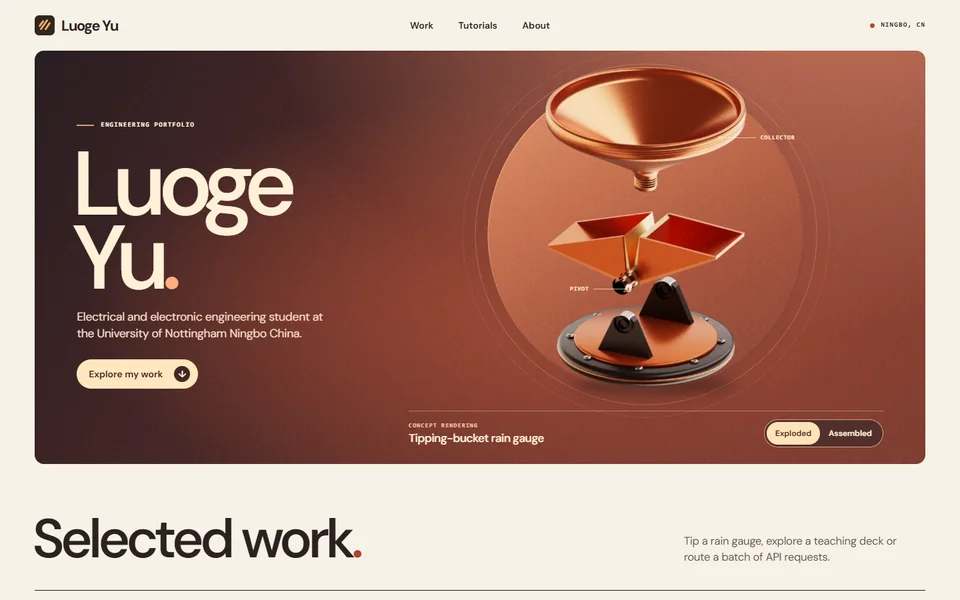
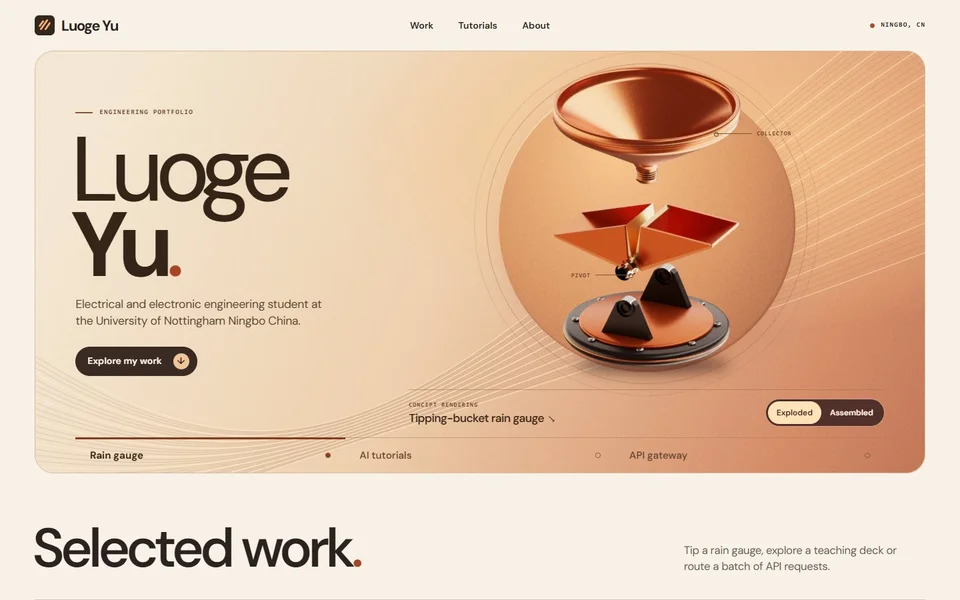
Present three engineering projects in a scroll-responsive copper gallery

diff --git a/version-2-ai-guided/style.css b/version-2-ai-guided/style.css
@@ -301,3 +301,72 @@ html:not(.enhanced) [data-slide] + [data-slide] { border-top: 1px solid #c8ab9b;
 @media (prefers-reduced-motion: reduce) {
   *, *::before, *::after { scroll-behavior: auto !important; transition-duration: 0s !important; animation-duration: .001ms !important }
 }
+
+/* Project gallery. The paper and copper surfaces share the site's original palette. */
+.hero {
+  --gutter: clamp(26px, 4.2vw, 74px);
+  grid-template-rows: minmax(0, 1fr) auto;
+  min-height: clamp(555px, 44vw, 750px);
+  color: #352519;
+  background: radial-gradient(ellipse at 79% 24%, #f6c48d 0%, transparent 40%),
+    linear-gradient(116deg, #f4e8d5 7%, #eed0ae 47%, #d58d68 86%, #c27757);
+  border: 1px solid #d9bda2; border-radius: clamp(17px, 2vw, 32px);
+}
+.current-field { position:absolute; inset:0; width:100%; height:100%; pointer-events:none; z-index:-1 }
+.hero .eyebrow, .hero .micro, .hero .annotation { color:#673e29 }
+.hero .short-rule, .hero .annotation i { background:#885236 }
+.hero .annotation i::after { border-color:#75432f }
+.hero h1 { font-size:clamp(96px,9.5vw,158px); font-weight:450; line-height:.83; margin-block:.16em .14em }
+.hero h1 b { font-weight:710 }
+.hero h1 span { color:#a74426 }
+.hero .intro { color:#563d2e }
+.hero .cta { background:#392b23; color:#fff4e3 }
+.hero .cta:hover { background:#613c29 }
+.hero .cta span { background:#f0c599; color:#3a281c }
+.hero :focus-visible { outline-color:#752c18 }
+.instrument { padding-bottom:14px }
+.instrument figcaption { border-color:#a2705090; min-height:58px }
+.scene-link { display:inline-flex; align-items:baseline; gap:.35em }
+.scene-link:hover strong { text-decoration:underline; text-underline-offset:.2em }
+.stage .lens {
+  background:radial-gradient(ellipse at 39% 24%, #f6c58e 4%, #da9766 54%, #b66f4e 85%);
+  box-shadow:inset 1px 2px 1px #fff1d4a6, inset -2px -3px 3px #99523977, 0 14px 35px #7f3e251c;
+}
+.stage .lens::before { border-color:#94543659 }
+.stage .lens::after { border-color:#94543630 }
+.scene-art { position:absolute; inset:8% 1% 5%; display:grid; place-items:center; pointer-events:none; }
+.scene-art picture { display:contents }
+.scene-art img { display:block; width:100%; height:100%; object-fit:contain; min-height:0; filter:drop-shadow(0 10px 14px #693c2730) }
+.instrument [hidden] { display:none }
+.instrument:not([data-scene="rain"]) :is(.object,.lens,.annotation,.view-control) { display:none }
+.enhanced .scene-picker {
+  display:grid; grid-template-columns:repeat(3,minmax(0,1fr)); grid-column:1 / -1; position:relative;
+  margin:0 var(--gutter); border-top:1px solid #ac775280;
+}
+.scene-picker button {
+  position:relative; display:flex; align-items:center; justify-content:space-between; gap:.5em;
+  border:0; background:transparent; text-align:left; color:#684631;
+  padding:16px clamp(9px,1.5vw,25px); font-size:clamp(12px,1.05vw,17px); font-weight:550;
+}
+.scene-picker button::before { content:""; position:absolute; inset:-1px 0 auto; height:3px; background:#803d24; transform:scaleX(0); transform-origin:left; transition:transform .44s }
+.scene-picker button::after { content:""; width:6px; height:6px; border-radius:50%; border:1px solid #8f6045 }
+.scene-picker button[aria-pressed="true"] { color:#352619; font-weight:700 }
+.scene-picker button[aria-pressed="true"]::before { transform:scaleX(1) }
+.scene-picker button[aria-pressed="true"]::after { background:#803d24 }
+.scene-picker button:focus-visible { outline-offset:-4px }
+@media (prefers-reduced-motion:no-preference) {
+  .scene-art:not([hidden]) img { animation: gallery-open .65s cubic-bezier(.18,.7,.2,1) both }
+  @keyframes gallery-open { from { clip-path:inset(0 17% round 16px); transform:scale(.95) } to { clip-path:inset(0 round 0); transform:scale(1) } }
+  .project.art-enter :is(.rain-study,.tutorial-cover,.gateway-figure picture) { animation: study-open .70s cubic-bezier(.18,.7,.2,1) both }
+  @keyframes study-open { from { clip-path:inset(1% 5% round 14px) } to { clip-path:inset(0 round 0) } }
+}
+@media (max-width:740px) {
+  .hero { --gutter:clamp(16px,5vw,32px); grid-template-rows:auto auto auto; min-height:0 }
+  .hero h1 { font-size:clamp(64px,15vw,101px); line-height:.9; margin-block:.13em }
+  .hero .stage { height:clamp(247px,66vw,360px) }
+  .scene-art { inset:5% 0 }
+  .instrument figcaption { min-height:48px }
+  .instrument strong { font-size:clamp(13px,3.5vw,17px) }
+  .instrument { padding-bottom:8px }
+  .scene-picker button { min-height:44px; padding:11px 6px }
+}

diff --git a/version-2-ai-guided/portfolio.js b/version-2-ai-guided/portfolio.js
@@ -14,6 +14,81 @@ function setAssembly(assembled) {
 assemblyButton.addEventListener("click", () => setAssembly(true));
 explodedButton.addEventListener("click", () => setAssembly(false));
 
+const sceneButtons = document.querySelectorAll(".scene-picker button");
+const scenes = {
+  rain: { title: "Tipping-bucket rain gauge", medium: "Concept rendering", target: "#rain-gauge" },
+  lesson: { title: "Inside a language model", medium: "Published lesson cover", target: "#ai-tutorials" },
+  gateway: { title: "Sub2API on OVH", medium: "System architecture", target: "#api-gateway" }
+};
+const sceneLink = byId("scene-link");
+for (const button of sceneButtons) {
+  button.addEventListener("click", () => {
+    const key = button.dataset.scene;
+    const scene = scenes[key];
+    instrument.dataset.scene = key;
+    instrument.querySelector(".lesson-art").hidden = key !== "lesson";
+    instrument.querySelector(".gateway-art").hidden = key !== "gateway";
+    byId("scene-medium").textContent = scene.medium;
+    sceneLink.querySelector("strong").textContent = scene.title;
+    sceneLink.setAttribute("href", scene.target);
+    sceneButtons.forEach(item => item.setAttribute("aria-pressed", String(item === button)));
+  });
+}
+
+// A family of copper curves shifts with native scroll. Idle pages do no drawing.
+const field = document.querySelector(".current-field");
+const brush = field.getContext("2d");
+if (brush) {
+  let frame = 0;
+  function paintField() {
+    frame = 0;
+    const bounds = field.getBoundingClientRect();
+    const width = bounds.width;
+    const height = bounds.height;
+    if (!width || !height || bounds.bottom <= 0 || bounds.top >= innerHeight) return;
+    const density = Math.min(devicePixelRatio || 1, 1.5);
+    const pixelsX = Math.round(width * density);
+    const pixelsY = Math.round(height * density);
+    if (field.width !== pixelsX || field.height !== pixelsY) {
+      field.width = pixelsX;
+      field.height = pixelsY;
+    }
+    brush.setTransform(density, 0, 0, density, 0, 0);
+    brush.clearRect(0, 0, width, height);
+    const scroll = motion.matches ? 0 : Math.max(0, -bounds.top / height);
+    for (let i = 0; i < 37; i++) {
+      const u = i / 36;
+      brush.beginPath();
+      brush.moveTo(-.07 * width, (.60 + .67 * u) * height);
+      brush.bezierCurveTo(.37 * width, (1.35 - .48*u - .09*scroll) * height,
+        .53 * width, (.56 + .30*u - .14*scroll) * height,
+        1.06 * width, (-.25 + .68*u + .06*scroll) * height);
+      brush.strokeStyle = i % 4 === 0 ? "rgba(255,241,205,.57)" : "rgba(134,71,41,.21)";
+      brush.lineWidth = i % 4 === 0 ? 1.3 : .8;
+      brush.stroke();
+    }
+  }
+  function scheduleField() {
+    if (!frame) frame = requestAnimationFrame(paintField);
+  }
+  window.addEventListener("resize", scheduleField);
+  window.addEventListener("scroll", () => { if (!motion.matches) scheduleField(); }, { passive: true });
+  motion.addEventListener("change", scheduleField);
+  scheduleField();
+}
+
+if ("IntersectionObserver" in window) {
+  const arrivals = new IntersectionObserver(entries => {
+    for (const entry of entries) {
+      if (entry.isIntersecting) {
+        entry.target.classList.add("art-enter");
+        arrivals.unobserve(entry.target);
+      }
+    }
+  }, { threshold: .08 });
+  document.querySelectorAll(".project").forEach(project => arrivals.observe(project));
+}
+
 const stage = instrument.querySelector(".stage");
 stage.addEventListener("pointermove", (event) => {
   if (event.pointerType !== "mouse" || motion.matches) return;

diff --git a/version-2-ai-guided/index.html b/version-2-ai-guided/index.html
@@ -9,8 +9,8 @@
   <title>Luoge Yu — Engineering Portfolio</title>
   <link rel="icon" href="favicon.svg" type="image/svg+xml">
   <link rel="preload" href="assets/dm-sans-latin.woff2" as="font" type="font/woff2" crossorigin>
-  <link rel="stylesheet" href="style.css">
-  <script src="portfolio.js" defer></script>
+  <link rel="stylesheet" href="style.css?v=studio-2">
+  <script src="portfolio.js?v=studio-2" defer></script>
 </head>
 <body data-version="2">
   <a class="skip" href="#main">Skip to content</a>
@@ -23,13 +23,14 @@
   </header>
   <main id="main" tabindex="-1">
     <section class="hero shell" aria-labelledby="hero-title">
+      <canvas class="current-field" aria-hidden="true"></canvas>
       <div class="hero-copy">
         <p class="eyebrow"><i class="short-rule" aria-hidden="true"></i>Engineering portfolio</p>
-        <h1 id="hero-title">Luoge<br> Yu<span>.</span></h1>
+        <h1 id="hero-title">Luoge<br> <b>Yu</b><span>.</span></h1>
         <p class="intro">Electrical and electronic engineering student at the University of Nottingham Ningbo China.</p>
         <a class="cta" href="#work">Explore my work <span aria-hidden="true">↓</span></a>
       </div>
-      <figure class="instrument" id="instrument">
+      <figure class="instrument" id="instrument" data-scene="rain">
         <div class="stage">
           <div class="lens" aria-hidden="true"><i></i></div>
           <div class="object" role="img" aria-label="Copper-coloured concept rendering of a tipping-bucket rain gauge, showing its collector, rocking bucket and base.">
@@ -40,15 +41,25 @@
           </div>
           <div class="annotation collector" aria-hidden="true"><i></i>Collector</div>
           <div class="annotation pivot" aria-hidden="true"><i></i>Pivot</div>
+          <div class="scene-art lesson-art" hidden><img src="assets/bilibili-codex-01-cover.webp" width="1280" height="720" alt="Published cover of my Chinese lesson on how an LLM works."></div>
+          <div class="scene-art gateway-art" hidden><picture>
+            <source media="(max-width: 740px)" srcset="assets/gateway-architecture-mobile.svg">
+            <img src="assets/gateway-architecture.svg" width="880" height="486" alt="Sub2API request path and Console feedback loop.">
+          </picture></div>
         </div>
         <figcaption>
-          <div><span class="micro">Concept rendering</span><strong>Tipping-bucket rain gauge</strong></div>
+          <div><span class="micro" id="scene-medium">Concept rendering</span><a class="scene-link" id="scene-link" href="#rain-gauge"><strong>Tipping-bucket rain gauge</strong><span aria-hidden="true"> ↘</span></a></div>
           <div class="view-control js-control" role="group" aria-label="Rain gauge view">
             <button id="exploded" type="button" aria-pressed="true">Exploded</button>
             <button id="assembly" type="button" aria-pressed="false"><span id="assembly-label">Assembled</span></button>
           </div>
         </figcaption>
       </figure>
+      <div class="scene-picker js-control" role="group" aria-label="Featured project preview">
+        <button type="button" data-scene="rain" aria-pressed="true" aria-controls="instrument">Rain gauge</button>
+        <button type="button" data-scene="lesson" aria-pressed="false" aria-controls="instrument">AI tutorials</button>
+        <button type="button" data-scene="gateway" aria-pressed="false" aria-controls="instrument">API gateway</button>
+      </div>
     </section>
 
     <div id="portfolio-body">
